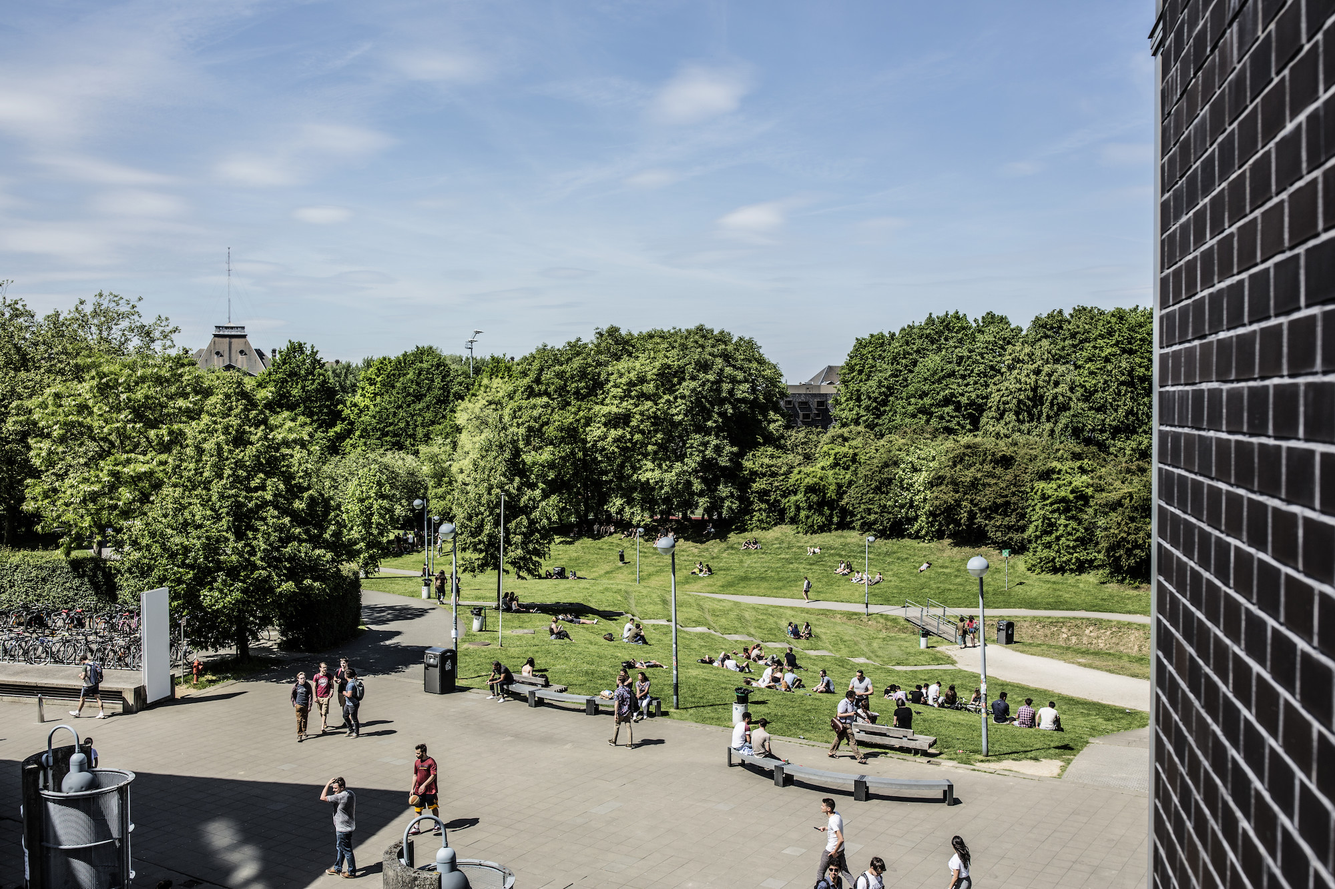
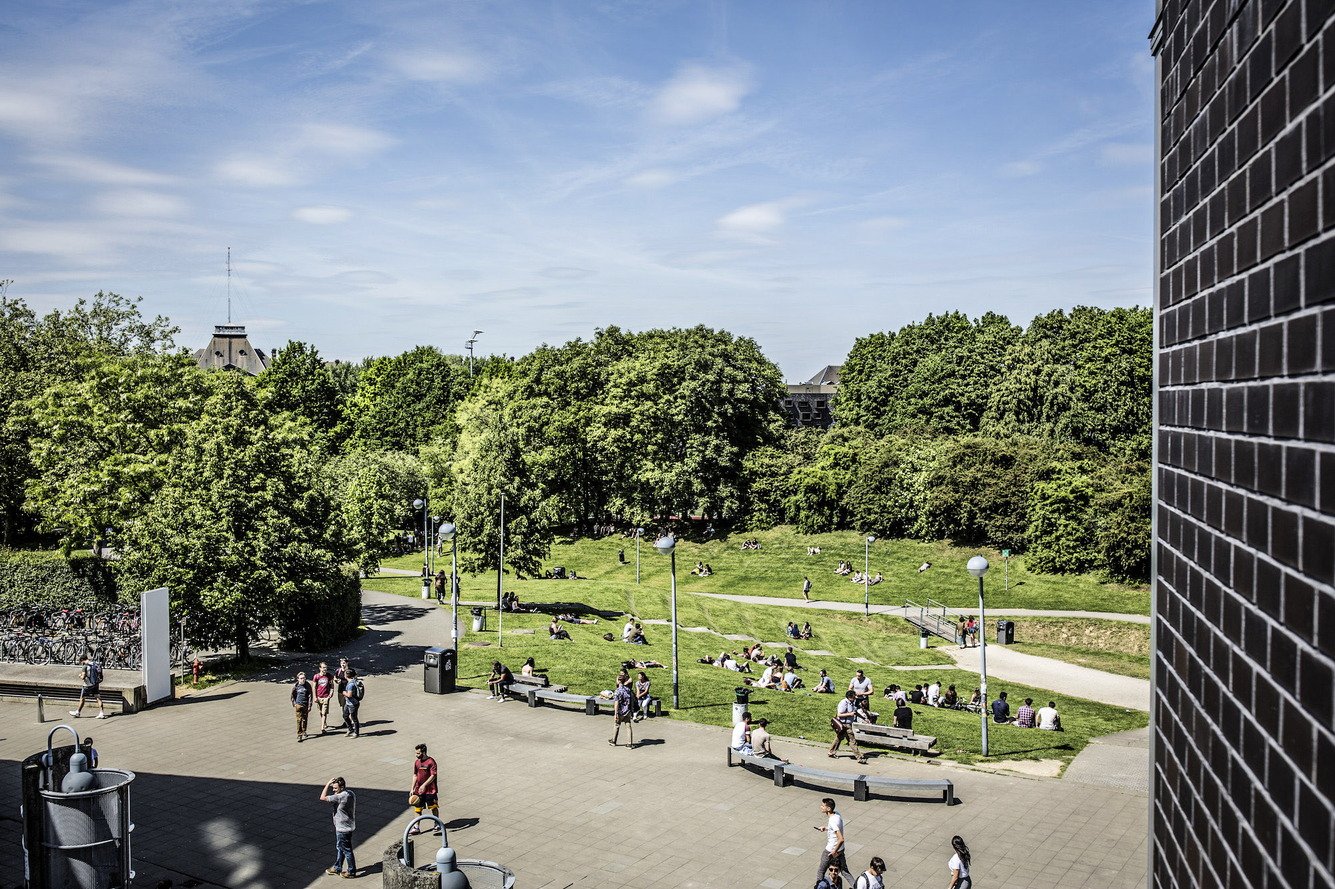
[SITE] Reworked images on 'How useful is...' blogpost

diff --git a/site/content/blogposts/2020-04-23-how-useful-is-my-degree-in-computer-science.md b/site/content/blogposts/2020-04-23-how-useful-is-my-degree-in-computer-science.md
@@ -17,6 +17,8 @@ The master's was a two year program of 120 [ECTS](https://en.wikipedia.org/wiki/
 Both those degrees I achieved at the [Vrije Universiteit Brussel](https://www.vub.be/en) (Free University of Brussels), or in short: VUB.
 My bachelor's took three years and my master's two years to complete.
 
+![Part of the green campus of the Vrije Universiteit Brussel](../../src/assets/img/how-useful-is-my-degree-in-computer-science/vrije-universiteit-brussel-campus.jpg)
+
 ## How did I choose where I would study?
 
 At 18 years old, I had the opportunity to start my education at university.
@@ -35,7 +37,7 @@ My future professors were very talkative and proud about their courses.
 I felt so much passion when they were talking about all the courses they were giving.
 That day I got home with a feeling of "I'll regret it if I don't study at the VUB".
 
-![Part of the green campus of the Vrije Universiteit Brussel](../../src/assets/img/how-useful-is-my-degree-in-computer-science/vrije-universiteit-brussel-campus.jpg)
+![Fisheye photo of the 'Grote Markt' (the main square) of Brussels](../../src/assets/img/how-useful-is-my-degree-in-computer-science/brussels-fisheye.jpg)
 
 ## What were the contents of my bachelor's?
 
@@ -157,7 +159,7 @@ And even if I didn't bughunt for something so specific, it gives me sense of ful
 
 Because I value background knowledge so much and am always curious on how things work, I consider this to be a good part of my education.
 
-![Aerial view of the campus of the Vrije Universiteit Brussel with the city in the background](../../src/assets/img/how-useful-is-my-degree-in-computer-science/vrije-universiteit-brussel-stad.jpg)
+![Crossing of multiple tram tracks uncovered. I find this fascinating to see how complex it all is before it's covered up by asphalt and a bunch of the complexity is hidden.](../../src/assets/img/how-useful-is-my-degree-in-computer-science/tram-tracks-uncovered.jpg)
 
 ## Most things in my current job, I've learned at the job
 
@@ -176,6 +178,8 @@ In my university courses I had learned the principles necessary to quickly incre
 So I'm not that concerned that I never had a basic JavaScript course nor a proper introduction into frontend frameworks or even an introduction on how to use a tool like SQL Server.
 I've learned the principles to work in new things, to transfer knowledge to something new.
 Languages or frameworks are merely tools to achieve my goal: build a product for the customer.
+
+![My first steps into a Vue project](../../src/assets/img/how-useful-is-my-degree-in-computer-science/vuejs-code.jpg)
 
 ## So... was it useful to get a degree in Computer Science at university level? Would I do it again?
 
